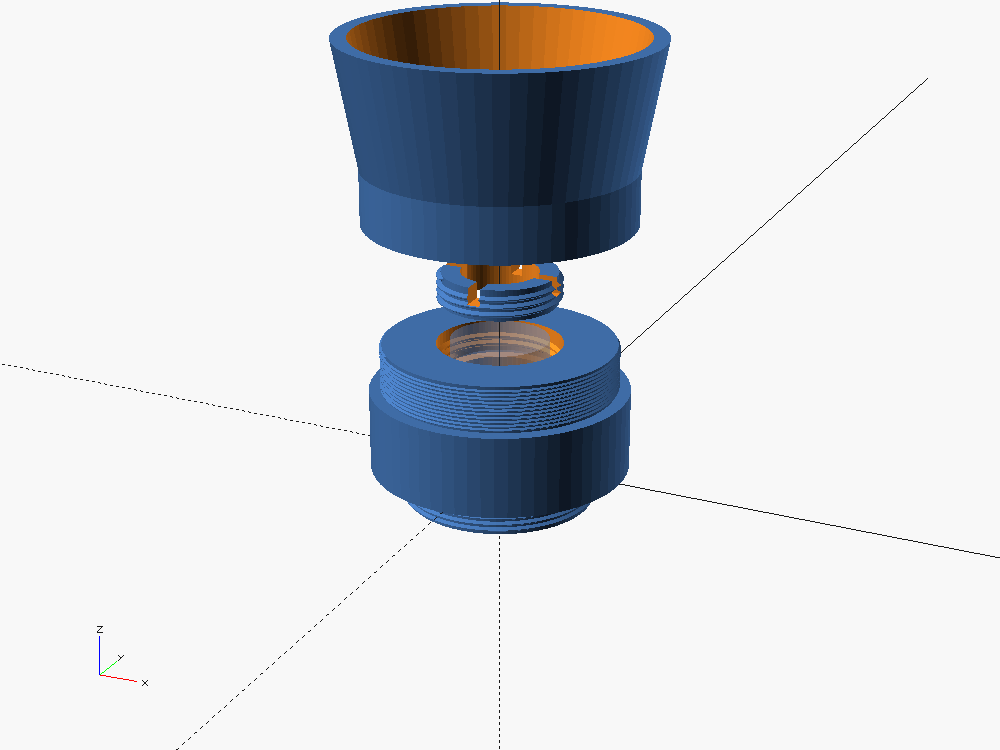
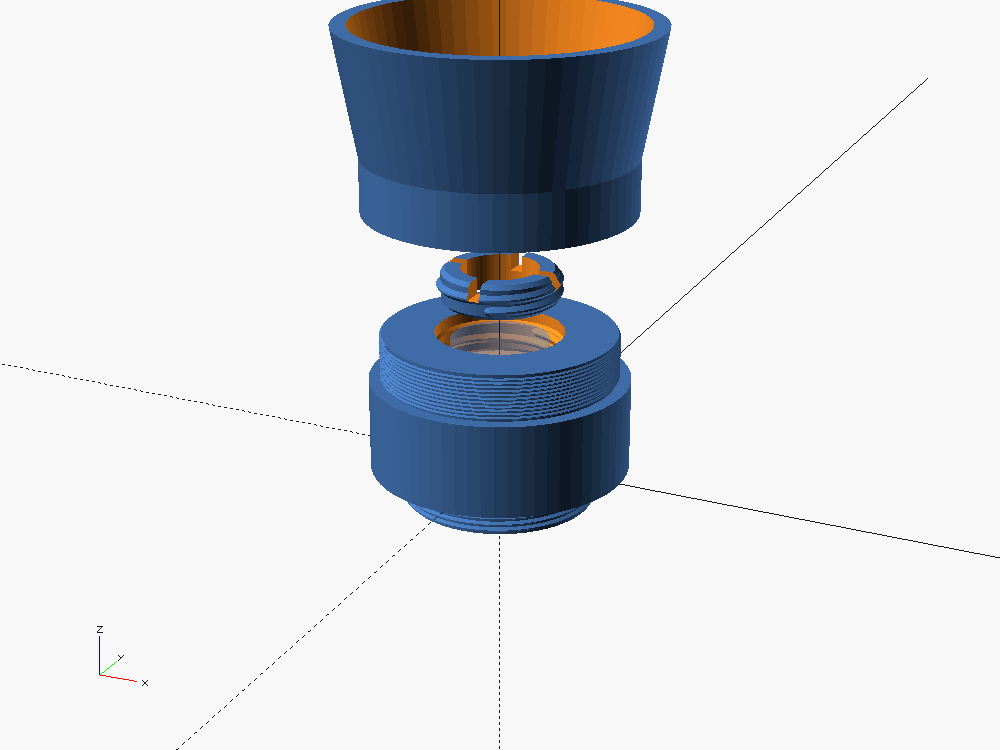
threads: printable-thread rules + print_thread() helper
The vibrometer barrel's Ø84.6 lens-retainer thread printed badly: male and
female were both modelled at d = 84.6 with BOSL2's default $slop = 0 (zero
clearance), used a 60° ISO profile (60° flank overhangs axis-vertical), $fn = 64
(4.2 mm facets at Ø85), and had no bed-face bevel for elephant's foot.

- docs/printable-threads.md: the rules (axis vertical, pitch >= 1.5, clearance
  0.30 + 0.003·d on the internal half, 45° flanks, >= 3 turns, blunt start +
  bevels, <= 0.4 mm facets, walls sized from the real cut), with sources.
- scad/lib/threads.scad: print_thread() applies and asserts them; PT_* constants.
- Receiver lens retainer -> 2.5 mm pitch, 45° flanks, 7.5 mm ring; filter ring
  engagement 3.5 -> 4.5 mm (shoulder stop left unbevelled); lens retainer
  pitch 1.0 -> 1.5 mm.
- make check-threads (in make check): raw threaded_rod() only when tagged
  `// interchange: <standard>` (C-mount, filter threads).
- CLAUDE.md invariant, skills and docs updated; renders regenerated.

diff --git a/tools/check_threads.py b/tools/check_threads.py
@@ -1,0 +1,33 @@
+#!/usr/bin/env python3
+"""Printable-thread lint (`make check-threads`). See docs/printable-threads.md.
+
+Every thread in scad/ must either go through print_thread() (scad/lib/threads.scad,
+which enforces the FDM rules with asserts) or be an INTERCHANGE thread that has to
+mate a bought part — tagged `// interchange: <standard>` within the 3 lines above the
+raw BOSL2 call. Anything else is a printed thread that skipped the rules.
+"""
+import pathlib
+import re
+import sys
+
+ROOT = pathlib.Path(__file__).resolve().parent.parent
+RAW = re.compile(r"\b(threaded_rod|threaded_nut|trapezoidal_threaded_rod|"
+                 r"trapezoidal_threaded_nut|acme_threaded_rod|buttress_threaded_rod)\s*\(")
+EXEMPT = {ROOT / "scad/lib/threads.scad"}
+
+bad = []
+for f in sorted((ROOT / "scad").rglob("*.scad")):
+    if f in EXEMPT:
+        continue
+    lines = f.read_text().splitlines()
+    for i, line in enumerate(lines):
+        code = line.split("//", 1)[0]
+        if RAW.search(code) and not any("interchange:" in l for l in lines[max(0, i - 3):i + 1]):
+            bad.append(f"{f.relative_to(ROOT)}:{i + 1}: {line.strip()}")
+
+if bad:
+    print("Untagged raw BOSL2 thread(s). Use print_thread() from scad/lib/threads.scad, or")
+    print("if it must mate a bought part, add `// interchange: <standard>` above it:")
+    print("\n".join("   " + b for b in bad))
+    sys.exit(1)
+print("   threads OK — printed pairs use print_thread(), the rest are tagged interchange")

diff --git a/docs/printable-threads.md b/docs/printable-threads.md
@@ -1,0 +1,132 @@
+# Printable threads
+
+Rules for every thread in `mapscam`. Most of them are enforced by code:
+`print_thread()` in [`scad/lib/threads.scad`](../scad/lib/threads.scad) asserts the
+numbers, and `make check-threads` (part of `make check`) fails the build on any printed
+thread that bypasses the helper. The numbers live in `scad/lib/constants.scad` (`PT_*`).
+They are tuned for a 0.4 mm nozzle at the 0.16 mm layers in
+[print-settings.md](print-settings.md).
+
+## Two kinds of thread
+
+| Kind | Example | What to do |
+|---|---|---|
+| **Private printed pair**: both halves are printed, and nothing bought has to fit | receiver `lens_retainer` ↔ `barrel`, `filter_ring` ↔ `stem`, lens `retainer` ↔ `barrel` | `print_thread()` only. Profile, pitch, clearance and length are all yours to choose, so choose printable ones. |
+| **Interchange**: has to mate a bought metal part | 1"-32 C-mount, Mxx×0.5 filter threads | Keep the standard ISO/UN profile. Call BOSL2 `threaded_rod()` directly with `// interchange: <standard>` in the 3 lines above it. Expect a marginal print (see [Interchange threads](#interchange-threads)). |
+
+If you are not sure which kind a thread is, it is private.
+
+## The rules
+
+1. **Print with the thread axis vertical.** Each turn then goes down as a nearly flat
+   ring, one layer on the next, with no supports. With the axis horizontal, the bottom
+   of every turn is an unsupported overhang and the thread goes oval. If you really
+   can't avoid it, BOSL2's `teardrop=` is the fallback, and the part will fit worse.
+2. **Pitch ≥ 1.5 mm, and 2–2.5 mm is better** (`PT_MIN_PITCH`). A 0.4 mm nozzle lays a
+   line about 0.45 mm wide. At 1 mm pitch or finer, each flank is only one or two lines
+   and neighbouring turns merge. That leaves at least 9 layers per pitch at 0.16 mm.
+   Larger diameters should use a coarser pitch: it is more forgiving of out-of-round.
+3. **Always give clearance, and put it on the internal part.** Diametral
+   clearance = `0.30 + 0.003·d` mm (`print_thread_clearance(d)`), so 0.35 at Ø17 and
+   0.55 at Ø85. It grows with d because shrinkage and out-of-round both scale with the
+   size of the circle. BOSL2's `$slop` defaults to **0**, so a raw `threaded_rod(internal=true)`
+   at the same `d` as its male half gives a zero-clearance pair that will not assemble.
+   Both halves take the same nominal `d`, and the internal cutter adds the clearance.
+4. **Use 45° flanks, not 60°.** An ISO/UN 60° thread has flanks only 30° above
+   horizontal, so printed axis-vertical every turn has a 60° overhang: droopy undersides
+   and ragged roots. `print_thread()` cuts a 90° included-angle trapezoid instead. Its
+   flanks sit at 45°, the steepest overhang FDM prints cleanly. It has flat crests and
+   roots (0.15·P each) instead of knife edges, and a depth of 0.35·P (`PT_DEPTH_RATIO`).
+5. **Thread length ≥ 3 pitches** (`PT_MIN_TURNS`). Blunt starts (rule 6) trim about half
+   a turn at each end, which leaves about 2 working turns. That is plenty for a
+   retaining ring clamping glass. Anything carrying real preload should use more turns,
+   or a heat-set insert.
+6. **Blunt starts, plus a bevel at both ends.** `print_thread()` always uses
+   `blunt_start`, so there is no feather-edge partial turn left to cross-thread. It also
+   bevels each end by one thread depth at 45°. The bevel gives a lead-in, and on the bed
+   face it absorbs elephant's foot, the squashed first layer that otherwise binds the
+   first turn. An internal thread whose mouth is on the bed gets its own 45° mouth
+   flare too (see the receiver barrel).
+   - **Exception:** never bevel an end that is a *depth stop*. Turn it off with
+     `bevel1/bevel2 = false`. Example: the `filter_ring` shoulder lands exactly when its
+     nose meets the filter. A bevel there would let it run on and load the glass.
+7. **Fine facets.** `print_thread()` uses `$fa = 1, $fs = 0.4` (`PT_FA`, `PT_FS`), so chords
+   are at most 0.4 mm. A coarse `$fn` on a big thread gives flat facets whose sag eats the
+   clearance: `$fn = 64` at Ø85 means 4.2 mm chords.
+8. **Size walls from the cut, not the nominal.** The wall behind an internal thread is
+   measured from `print_thread_bore(d)` (nominal + clearance). The male's minor diameter,
+   `print_thread_minor(d, pitch)`, is what has to clear any bore inside it. Write the
+   `params.scad` asserts against those two, not against `d`.
+9. **Minimum diameter: 8 mm** (`PT_MIN_D`). Smaller printed threads are only a few
+   nozzle widths tall. Use a brass heat-set insert (`constants.scad`) instead.
+
+## Slicer
+
+On top of [print-settings.md](print-settings.md):
+- 4 perimeters. The thread is all perimeter, and infill never reaches it.
+- Slow outer wall for the threaded part. Put the seam **aligned / rear**, not random: a
+  random seam puts a zit on every turn.
+- Leave XY / hole compensation at the value tuned for the M3 insert pocket. Don't add
+  extra compensation to "fix" a thread. Change `PT_CLEAR_BASE` instead, so the model
+  stays the truth.
+- Print both halves of a pair on the same printer in the same material. PETG shrinks
+  about 0.3–0.5 %, which is ~0.3 mm on Ø85, and the clearance assumes both halves shrink
+  alike.
+
+## Tuning
+
+Clearance is set by printer and material, and there are two knobs:
+- **Every thread too tight or too loose:** change `PT_CLEAR_BASE` in `constants.scad`.
+  Re-render both halves.
+- **Only one thread is off:** pass `clearance =` to that `print_thread()` call (the
+  internal half) and note why in a comment.
+
+Before reprinting a big part, print a short test ring. Set `print_thread(l = 3·pitch)` on
+a thin tube for both halves (minutes of printing, versus hours for the receiver barrel).
+
+## Interchange threads
+
+These have to take a bought metal part, so they keep the standard profile and pitch.
+They are knowingly marginal on FDM:
+
+| Thread | Pitch | Layers / pitch @ 0.16 | Advice |
+|---|---|---|---|
+| 1"-32 UN C-mount | 0.794 mm | 5 | Fine for prototypes. For anything you'll keep, use the captured metal ring build (`lens_mount_style = "ring"`, `docs/design-notes.md`). Chase with the actual lens. |
+| Mxx×0.5 filter | 0.5 mm | 3 | Expect to chase it with the filter. Use a bought step ring if it matters. |
+
+A raw BOSL2 call is still better with `bevel=true` at the lead-in end and a real
+`thread_clearance`. Neither is automatic outside `print_thread()`.
+
+## Case study: the vibrometer receiver retainer
+
+The Ø84.6 thread that clamps the Ø80 optic printed badly. Everything that was wrong
+with it is a rule above:
+
+| Was | Rule | Now |
+|---|---|---|
+| male and female both at `d = 84.6`, `$slop = 0`, so **zero clearance** | 3 | internal cut at Ø85.15 (0.55 diametral) |
+| 60° ISO profile, 2.0 mm pitch: 60° flank overhangs | 4, 2 | 45° flanks, 2.5 mm pitch, 0.875 mm deep, flat crests |
+| `$fn = 64` at Ø85, 4.2 mm facets | 7 | ≤ 0.4 mm chords |
+| no bevel on the ring's bed face, square mouth on the barrel's bed face | 6 | 45° bevel on both, plus a mouth flare |
+| 6 mm ring = 3 turns, minus the blunt starts | 5 | 7.5 mm ring (3 × 2.5); the barrel cell is 1.5 mm longer |
+
+The filter ring (Ø17 × 1.5) and the `lens` component's retainer (1.0 → 1.5 mm pitch)
+moved onto `print_thread()` in the same change.
+
+## Sources
+
+- [Meshra — How to design 3D printed threads](https://meshra.ai/blog/design-3d-printed-threads):
+  pitch vs nozzle, clearance ranges, trapezoidal over 60° V, axis-vertical orientation.
+- [Snapmaker — Guide to designing and 3D printing threads](https://www.snapmaker.com/blog/3d-printing-threads/):
+  45° lead-in chamfers on the screw and the nut mouth, trapezoidal profile, axis
+  vertical, and clearance by offsetting one half (they shrink the male; we grow the
+  female, which works the same way and keeps the male at its nominal size).
+- [BOSL2 `threading.scad`](https://github.com/BelfrySCAD/BOSL2/wiki/threading.scad):
+  `$slop` adds `4·$slop` to internal threads and is 0 by default. `blunt_start` is
+  recommended for printing. The example "a 90° thread, resulting in 45° slopes friendly
+  for 3D printing". The default blunt-start bevel is r/6, which is why `print_thread()`
+  sizes its own.
+- [JLC3DP — Considerations for 3D printing threads](https://jlc3dp.com/blog/considerations-for-3d-printing-threads):
+  layer height as a fraction of pitch.
+- [CNC Kitchen — M3–M10 printed thread test](https://www.printables.com/model/81211-m3-m10-3d-printed-thread-test):
+  small printed threads are weak, so use inserts below ~M8.

diff --git a/docs/receiver-optic.md b/docs/receiver-optic.md
@@ -54,8 +54,10 @@ The optic **loads from the front (muzzle) end** of the `barrel` and seats on a
 shoulder machined into the bore (the step from `pocket_bore` down to `barrel_bore`
 at `z = -element_edge_thk`). The `lens_retainer` then **threads into the barrel**
 ahead of the optic and clamps it back against that seat — same scheme as the
-`lens` component's `scad/lib/lens/retainer.scad` (a coarse, printed internal
-thread; no interchange requirement).
+`lens` component's `scad/lib/lens/retainer.scad`. It is a private printed pair, so it
+goes through `print_thread()`: 2.5 mm pitch, 45° flanks, 0.55 mm diametral clearance on
+the barrel side, and a 7.5 mm (3-turn) ring. See [printable-threads.md](printable-threads.md),
+which uses this thread as its case study.
 
 An earlier revision held the optic with 3 radial M3 set screws into a V-groove on
 a plain ring, with the front aperture and the rear (trunk) bore both narrower than
@@ -122,8 +124,8 @@ Reading −Z from the seating plane (`z = 0`):
 [ Ø8.0 filter ]  seats +Z-face-up on the land        z = -1.35 .. -0.8
 [ filter_ring Ø8.1 nose ]                            z = -3.35 .. -1.35
 [ funnel Ø8.6 -> Ø17 ]                               z = -3.35 .. -1.85
-[ Ø17 retainer thread ]  filter_ring body            z = -6.85 .. -3.35
-[ ring lead-in -> neck bore Ø22 -> barrel ]          z < -6.85
+[ Ø17 retainer thread ]  filter_ring body            z = -7.85 .. -3.35
+[ ring lead-in -> neck bore Ø22 -> barrel ]          z < -7.85
 ```
 
 The **`filter_ring`** is a top hat: Ø8.1 nose, Ø17 threaded body, Ø6 through-bore
@@ -132,7 +134,9 @@ then wind the ring in behind it with a long flat screwdriver down the Ø22 neck 
 (turn it before you plug the barrel on). It seats when the **`fring_nose_h` = 2.0 mm
 nose meets the filter face at the same instant the ring body shoulder bottoms on the
 funnel step** — so the filter is captured with *zero* clamping stress on the thin
-glass while the thread carries its full `fring_engage` (3.5 mm) engagement.
+glass while the thread carries its full `fring_engage` (4.5 mm = 3 × 1.5 mm pitch) engagement.
+That shoulder end of the thread is deliberately left unbevelled: a bevel there would let
+the ring run past its stop.
 
 The filter sits ~1 mm target-side of focus. At ~150 mm from a Ø74 aperture the
 marginal ray hits it at ≤ 14° — a ~2.5 nm passband shift against a 25 nm half-width,

diff --git a/CLAUDE.md b/CLAUDE.md
@@ -33,7 +33,12 @@ For ad hoc CLI runs, set it yourself. BOSL2 is a git submodule (`make vendor` to
    `build/components.mk` (`DFLAGS_<name>`) and the `Makefile` passes them on every render.
    The stub's in-file re-assignments are Customizer-only (they don't cross `use <>`; see
    `docs/modularity.md`). `make check` guards this with `check-overrides`.
-5. **Parts must render 2-manifold individually.** The `assembly` view may not (coincident
+5. **Printed threads follow `docs/printable-threads.md`.** Every private printed pair
+   (both halves printed) goes through `print_thread()` in `scad/lib/threads.scad`: 45° flanks,
+   ≥ 1.5 mm pitch, ≥ 3 turns, automatic clearance on the internal half. A raw BOSL2
+   `threaded_rod()` is only allowed for a thread that has to mate a bought part, tagged
+   `// interchange: <standard>`. `make check` runs `check-threads` to enforce this.
+6. **Parts must render 2-manifold individually.** The `assembly` view may not (coincident
    mating faces) — it's preview only, not for STL export.
 
 ## Layout

diff --git a/.claude/skills/new-module/SKILL.md b/.claude/skills/new-module/SKILL.md
@@ -32,6 +32,10 @@ These are camera-enclosure modules — they live in `scad/lib/camera/`. Shared h
 3. `use <<module>.scad>` + a `part == "<module>"` branch in `scad/lib/camera/dispatch.scad`,
    and place it in the exploded `assembly` preview.
 4. Add `<module>` to `parts` / `check_parts` in `components/_type/camera.toml`.
+   Threads between two printed parts (a screw-on cap, a drawer lock): `use <../threads.scad>`
+   and `print_thread()`. Size walls from `print_thread_bore()` / `print_thread_minor()`
+   (`docs/printable-threads.md`). A raw `threaded_rod()` is only for mating bought
+   parts, tagged `// interchange: <standard>`.
 5. `make gen && make check`, then render and read the PNG.
 6. Update `docs/modularity.md` (module list), `docs/bom.md`, `README.md` layout.
 

diff --git a/docs/design-notes.md b/docs/design-notes.md
@@ -105,7 +105,8 @@ focus is still the camera's shim stack plus (for a real lens) the focus ring.
 ### Limitations
 
 - Fixed focus — no printed helicoid yet. A moving `focus_ring` group is a planned follow-up.
-- The retainer thread is a coarse (1 mm pitch) printed thread; the optional front
+- The retainer thread is a printed `print_thread()` pair (1.5 mm pitch, 45° flanks —
+  [printable-threads.md](printable-threads.md)); the optional front
   `filter_thread` is modelled at true 0.5 mm pitch and prints marginally on FDM, same
   caveat as the printed C-mount thread.
 - No baffles / internal blackening geometry; paint the bore or add a flock liner.

diff --git a/.claude/skills/add-lens-body/SKILL.md b/.claude/skills/add-lens-body/SKILL.md
@@ -45,6 +45,9 @@ the "Lens bodies" section of `docs/design-notes.md`.
    `flange_to_rear_vertex`), and which parts to print.
 
 ## Don't
+- Don't add a raw `threaded_rod()` for a printed pair. Use `print_thread()`
+  (`scad/lib/threads.scad`, rules in `docs/printable-threads.md`). Only a thread that has to
+  mate a bought part stays raw, tagged `// interchange: <standard>`.
 - Don't hand-edit `scad/variants/*.scad` / `components.json` / the README table — generated.
 - Don't expect a focus helicoid — barrels are fixed-focus; fine focus is the camera shim
   stack. A moving `focus_ring` is a future addition.

diff --git a/docs/print-settings.md b/docs/print-settings.md
@@ -32,6 +32,11 @@
 | `shims` | flat | print one sheet; they're fragile — handle with tweezers |
 | `base` | plate flat on the bed, boss + countersinks up | boss prints unsupported; the pocket floor bridges its Ø4 vent fine |
 
+Threads: see [printable-threads.md](printable-threads.md). Print every threaded part
+**thread axis vertical**. That covers the receiver `barrel` optic-end-down, its
+`lens_retainer` flat with the clamp face on the bed, and the `filter_ring` standing on
+its nose.
+
 ## Post-processing
 
 1. Install heat-set inserts with a soldering iron + insert tip. Press square. Let cool
